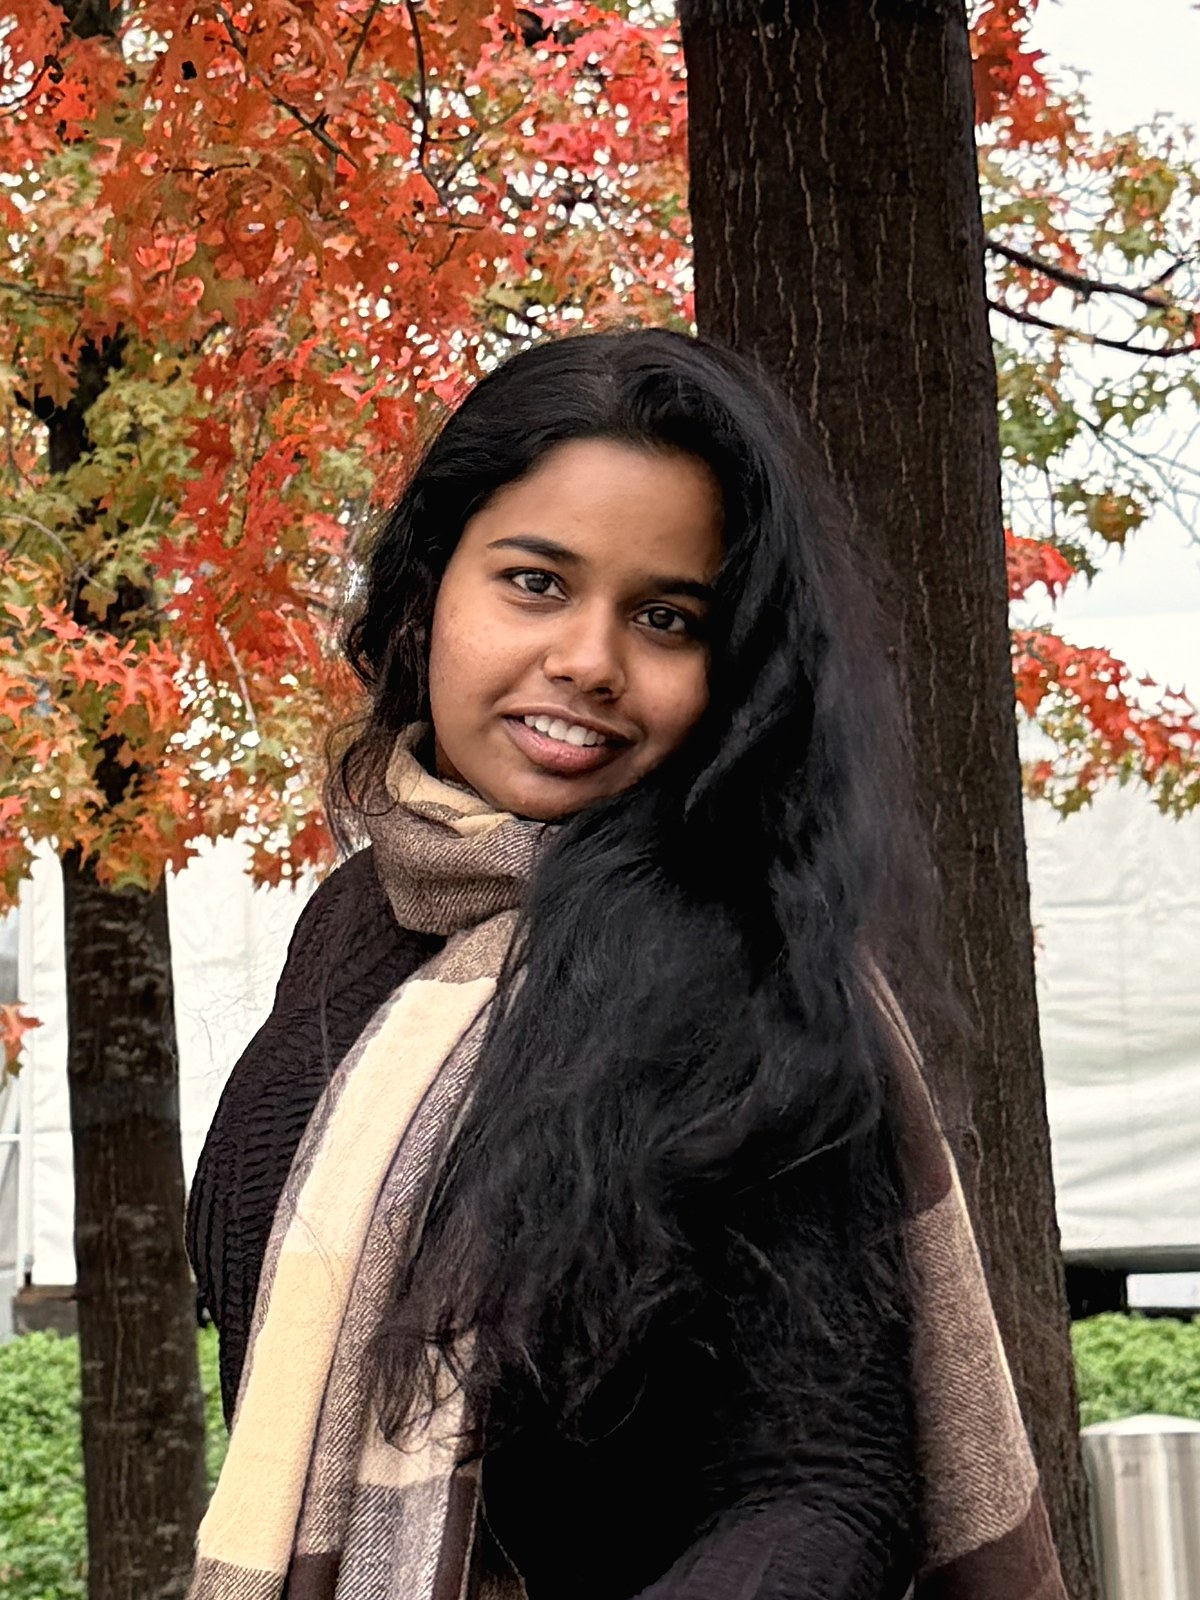
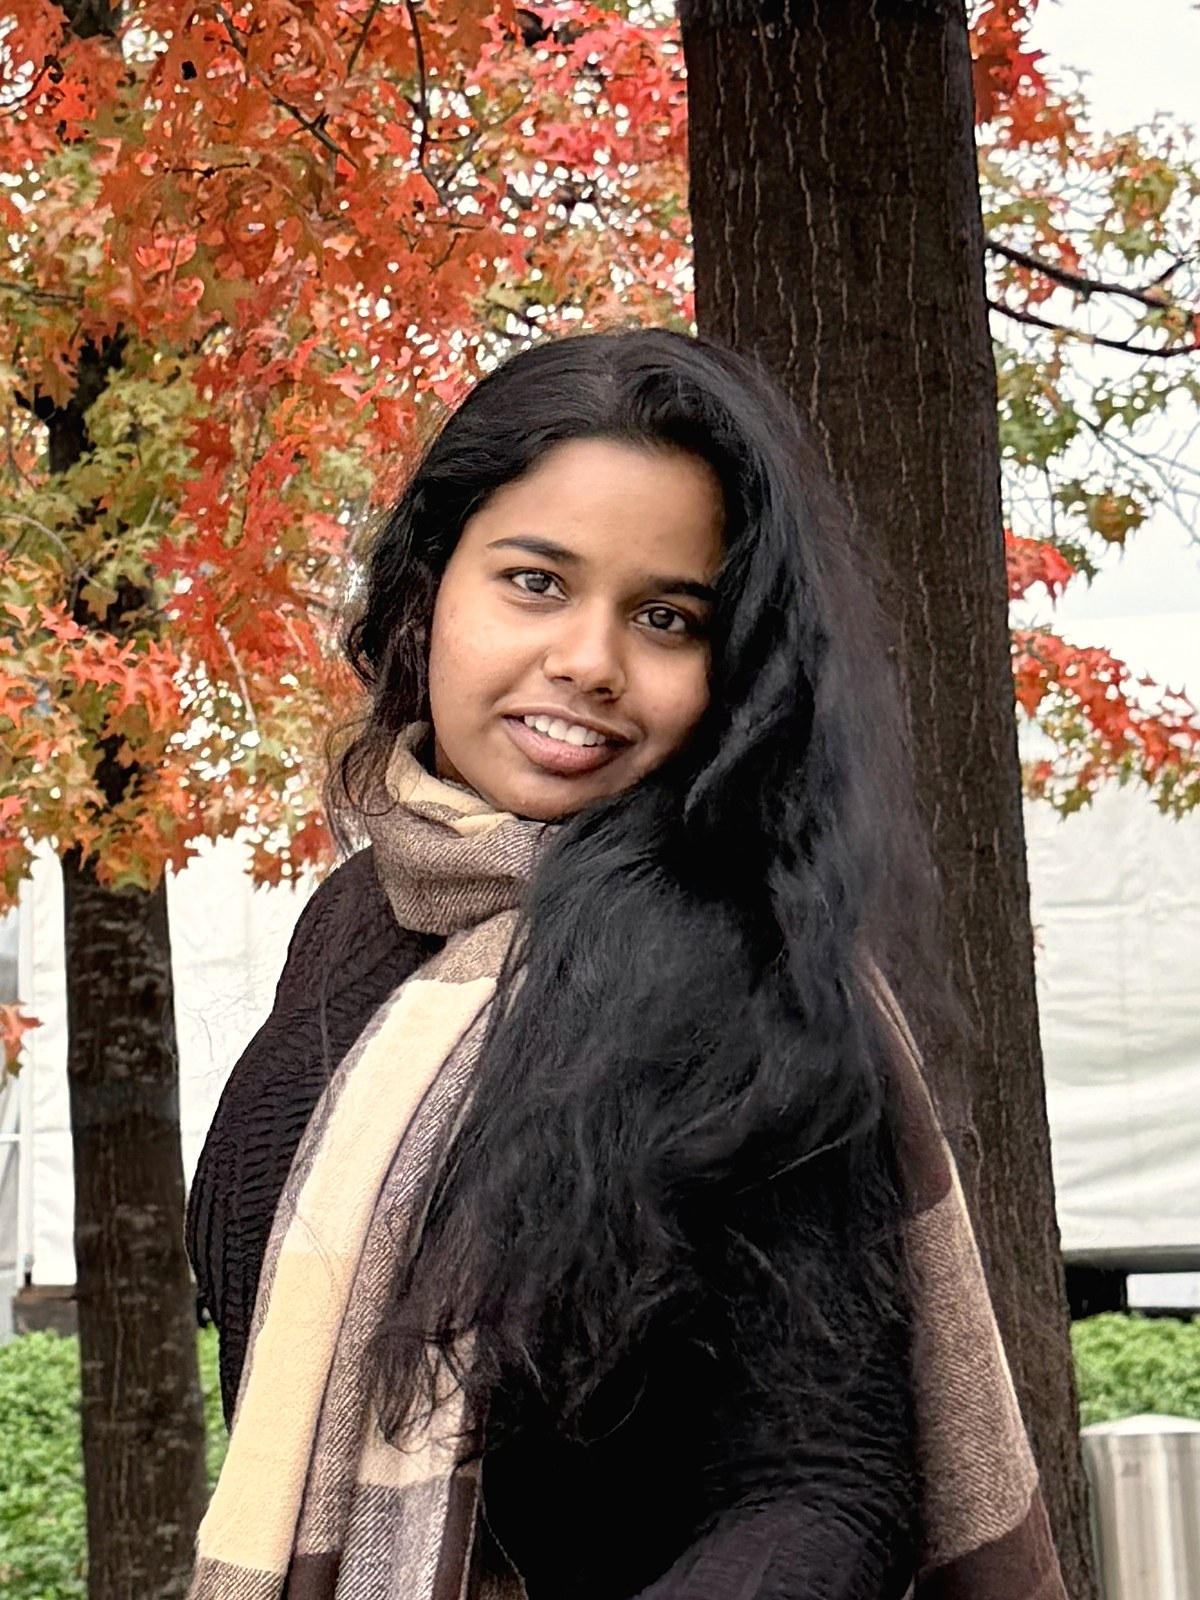
Brighten the face in the hero photo and lighten its overlay filter

Changed region(s): [[0.2775, 0.2188, 0.6167, 0.5938], [0.6167, 0.4375, 0.6475, 0.4688], [0.5858, 0.4688, 0.6167, 0.5]]

diff --git a/src/styles/hero.css b/src/styles/hero.css
@@ -45,13 +45,13 @@
 .hero-frame-inner { position: absolute; inset: 0 0 -10% 0; }
 .hero-frame img {
   width: 100%; height: 100%; object-fit: cover; object-position: center top;
-  filter: saturate(0.82) contrast(1.06) sepia(0.1) brightness(0.97);
+  filter: saturate(0.92) contrast(1.04) sepia(0.06) brightness(1.04);
   transition: filter 0.9s var(--ease), transform 1.4s var(--ease);
 }
 .hero-frame::after {
   content: ''; position: absolute; inset: 0; z-index: 1; pointer-events: none;
   background:
-    linear-gradient(180deg, rgba(255, 90, 54, 0.12), transparent 35%, transparent 62%, rgba(10, 9, 8, 0.6)),
+    linear-gradient(180deg, rgba(255, 90, 54, 0.08), transparent 30%, transparent 68%, rgba(10, 9, 8, 0.55)),
     radial-gradient(120% 70% at 50% 0%, transparent 60%, rgba(10, 9, 8, 0.35));
   transition: opacity 0.9s var(--ease);
 }

diff --git a/src/data.js b/src/data.js
@@ -12,7 +12,7 @@ export const profile = {
   linkedin: 'https://www.linkedin.com/in/chandanapriyak',
   github: 'https://github.com/k-chandanapriya',
   cv: 'Chandana-Priya-Kummarigunta-CV.pdf',
-  photo: 'chandana.jpg?v=arch2',
+  photo: 'chandana.jpg?v=bright',
   intro:
     'I turn cutting-edge AI into products people can trust. I fine-tune large language models, build RAG systems that reach 95.7% Recall@5, and engineer real-time ML pipelines that score transactions in under 10 ms. Fast, accurate and ready for the real world.',
   about: [
